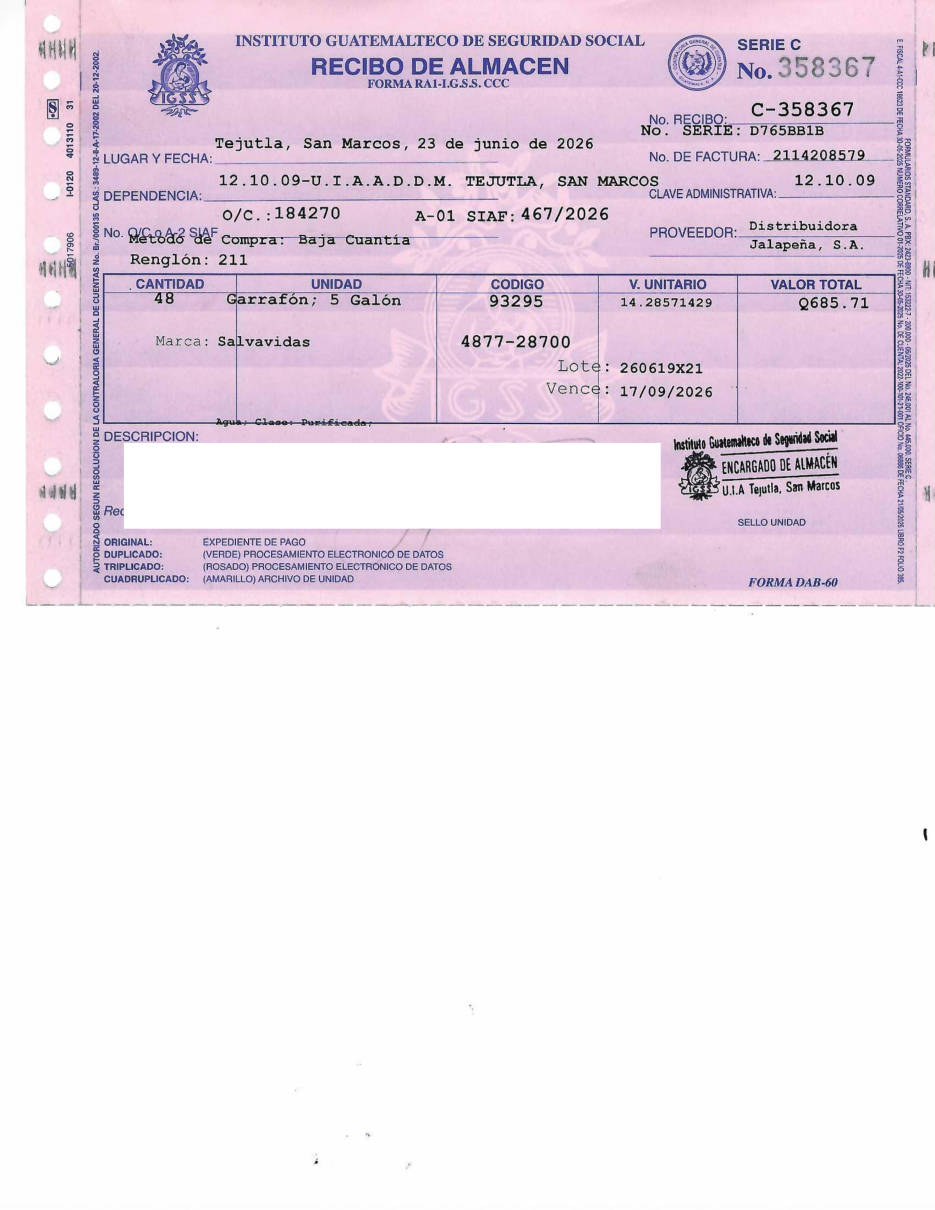
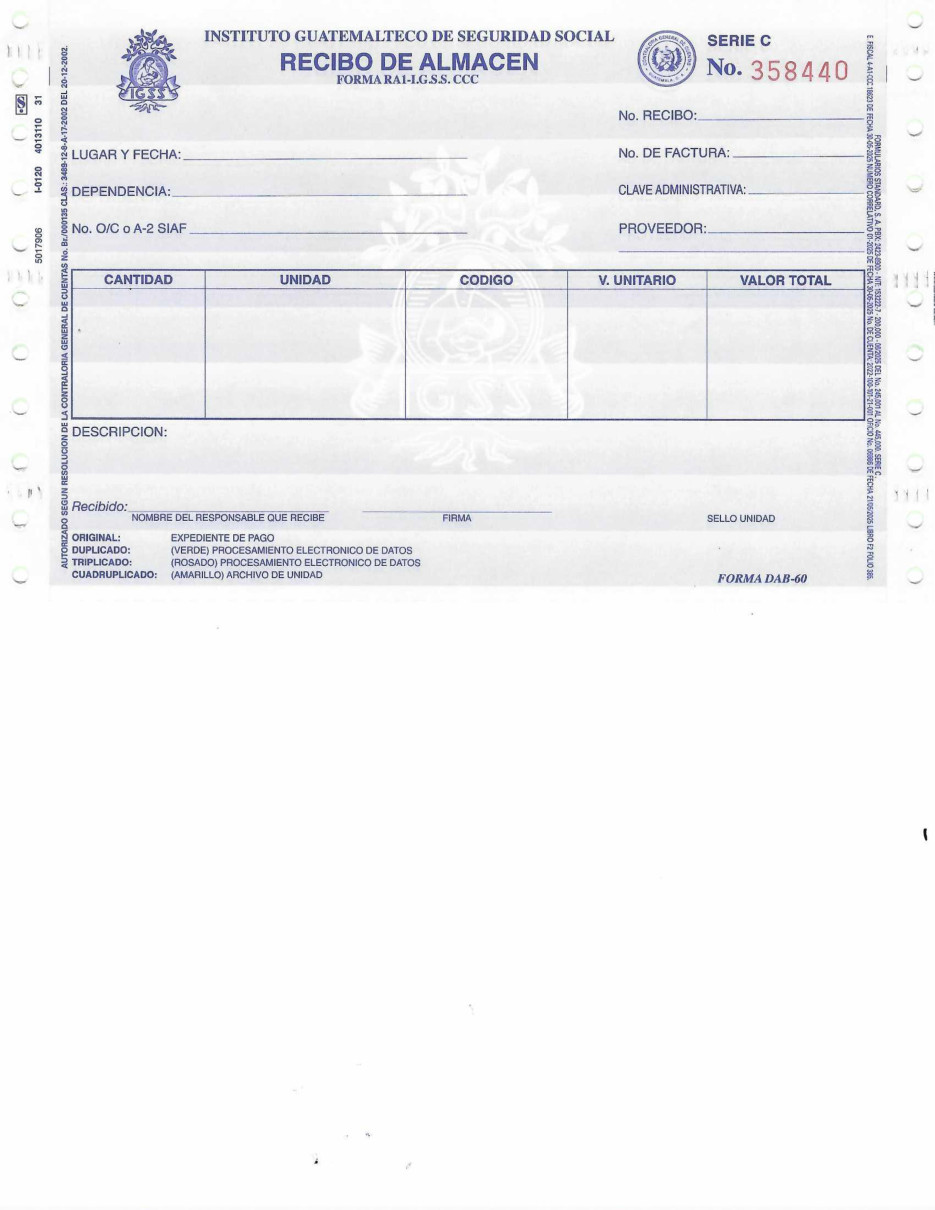
DAB-60: imagen de referencia limpia + visible siempre en previsualización (#66)
* Presupuesto: gatear SIAF/Compromiso/Regularizado por Vigente real, no por Programado

Antes, aprobar un SIAF (o Compromiso, o el flujo Regularizado) solo dejaba
pasar hasta lo Programado/Reprogramado del cuatrimestre vigente para ese
renglón, aunque el renglón todavía tuviera presupuesto Vigente real sin
gastar. Eso bloqueaba compras urgentes e importantes (ej. agua para un
consultorio) solo porque Programación no alcanzó a cubrirlas a tiempo.

Ahora el chequeo es contra el Vigente real del renglón (+ Modificaciones)
menos lo ya reservado/ejecutado en cualquier etapa (Pre-Compromiso,
Compromiso, Devengado normal y regularizado) y lo Caducado — sin importar
si está Programado. Solo bloquea si de verdad ya no alcanza el Vigente.

Se quita también la doble revisión que hacía aprobarCompromiso contra el
Programado por tipo, que ya no tenía sentido bajo esta regla (la plata ya
quedó apartada desde que se aprobó el SIAF).

Claude-Session: https://claude.ai/code/session_01YUwJqRtho2v24bqdbtqfET

* Configuración: Código de Centro de Costo, conectado a Clave Administrativa del DAB-60

Se agrega el campo en Configuración General → Datos de la Unidad. El DAB-60
ya tenía el campo "Clave Administrativa" en su plantilla de impresión, pero
tomaba el Código contable en vez de un centro de costo real — ahora toma
este nuevo campo, así que siempre imprime el valor correcto.

Claude-Session: https://claude.ai/code/session_01YUwJqRtho2v24bqdbtqfET
[…]

diff --git a/src/app/almacen/dab-60/[id]/imprimir/ImprimirDab60Client.tsx b/src/app/almacen/dab-60/[id]/imprimir/ImprimirDab60Client.tsx
@@ -364,9 +364,12 @@ export default function ImprimirDab60Client({ orden: o, renglones, datos, posici
   const [guardado, setGuardado] = useState(false);
   const hojaRef = useRef<HTMLDivElement>(null);
 
+  // El fondo se ve siempre en pantalla (para previsualizar cómo va a quedar
+  // el recibo real) — solo se oculta al imprimir (.no-print), nunca sale en
+  // el papel.
   useLayoutEffect(() => {
-    if (verPosiciones && !fondo) getFondoDab60().then(setFondo);
-  }, [verPosiciones, fondo]);
+    if (!fondo) getFondoDab60().then(setFondo);
+  }, [fondo]);
 
   const onChangePos = useCallback((id: string, next: Pos) => {
     setPos(p => ({ ...p, [id]: next }));
@@ -469,7 +472,7 @@ export default function ImprimirDab60Client({ orden: o, renglones, datos, posici
 
       <div id="print-wrapper">
         <div id="hoja" ref={hojaRef} style={{ fontFamily: FONT, color: "#000" }}>
-          {verPosiciones && fondo && (
+          {fondo && (
             <img src={fondo} alt="" className="no-print" style={{
               position: "absolute", inset: 0, width: "100%", height: "100%",
               objectFit: "fill", opacity: 0.55, pointerEvents: "none",
